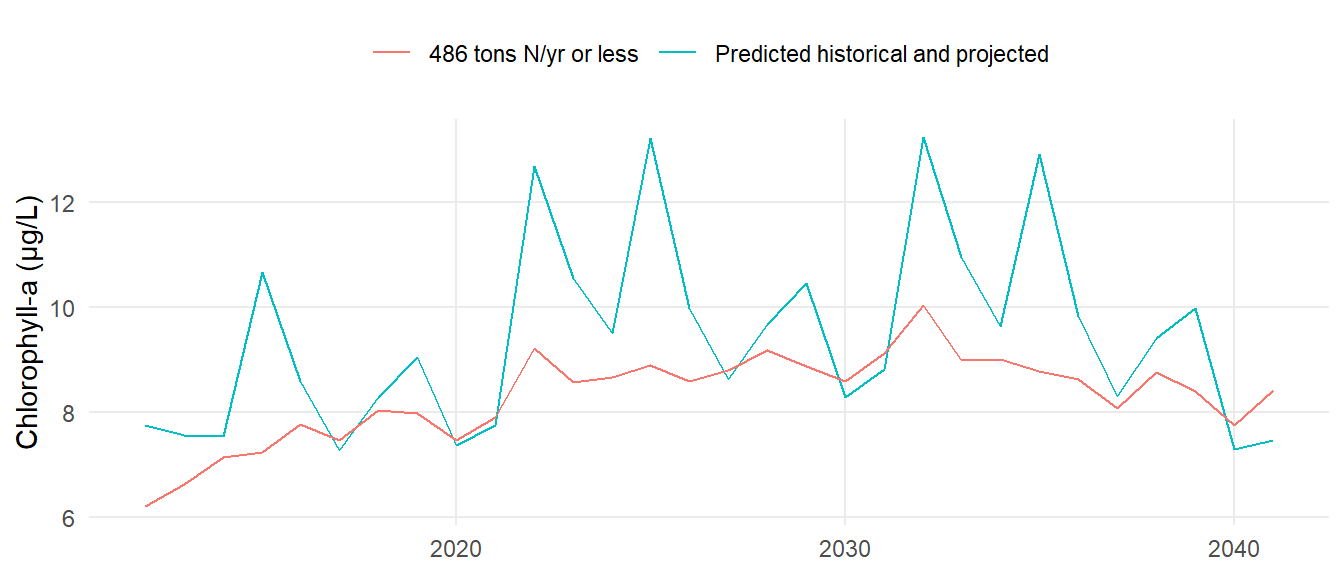
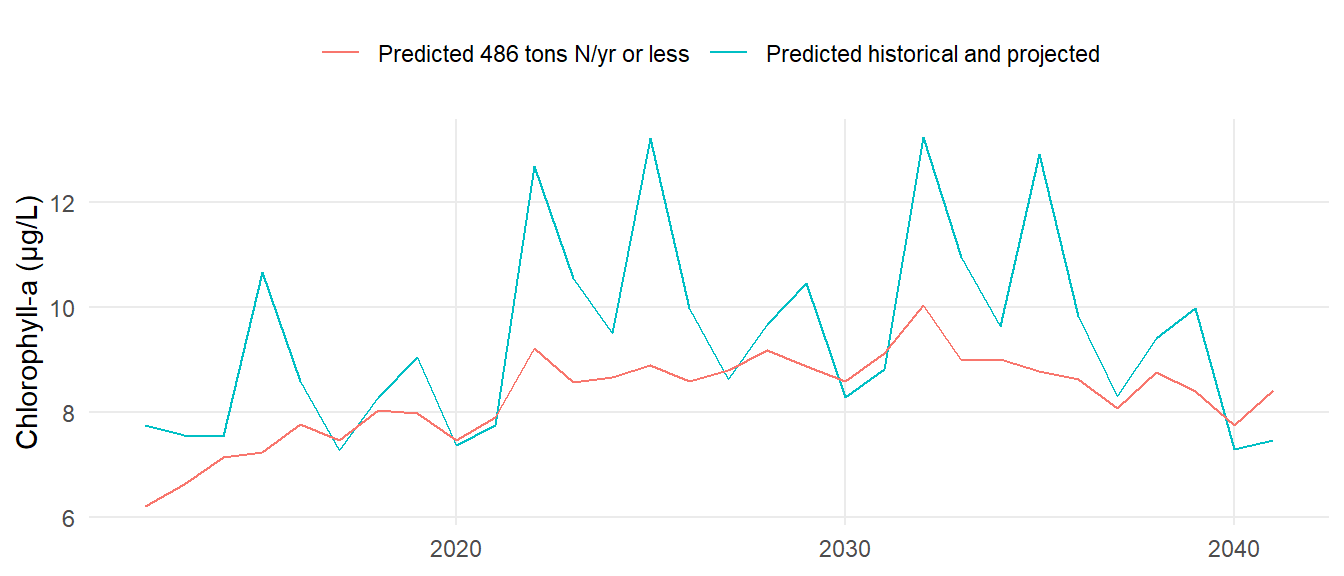
minor plot change

Changed region(s): [[0.2812, 0.0625, 0.8125, 0.125]]

diff --git a/docs/casm_eval.html b/docs/casm_eval.html
@@ -176,7 +176,7 @@ pre > code.sourceCode > span > a:first-child::before { text-decoration: underlin
 <span id="cb2-6"><a href="#cb2-6" aria-hidden="true" tabindex="-1"></a>  )</span>
 <span id="cb2-7"><a href="#cb2-7" aria-hidden="true" tabindex="-1"></a><span class="fu">ggplot</span>(toplo, <span class="fu">aes</span>(<span class="at">x =</span> yr)) <span class="sc">+</span> </span>
 <span id="cb2-8"><a href="#cb2-8" aria-hidden="true" tabindex="-1"></a>  <span class="fu">geom_line</span>(<span class="fu">aes</span>(<span class="at">y =</span> prdhist, <span class="at">color =</span> <span class="st">'Predicted historical and projected'</span>)) <span class="sc">+</span></span>
-<span id="cb2-9"><a href="#cb2-9" aria-hidden="true" tabindex="-1"></a>  <span class="fu">geom_line</span>(<span class="fu">aes</span>(<span class="at">y =</span> prd486, <span class="at">color =</span> <span class="st">'486 tons N/yr or less'</span>)) <span class="sc">+</span> </span>
+<span id="cb2-9"><a href="#cb2-9" aria-hidden="true" tabindex="-1"></a>  <span class="fu">geom_line</span>(<span class="fu">aes</span>(<span class="at">y =</span> prd486, <span class="at">color =</span> <span class="st">'Predicted 486 tons N/yr or less'</span>)) <span class="sc">+</span> </span>
 <span id="cb2-10"><a href="#cb2-10" aria-hidden="true" tabindex="-1"></a>  <span class="fu">theme_minimal</span>() <span class="sc">+</span></span>
 <span id="cb2-11"><a href="#cb2-11" aria-hidden="true" tabindex="-1"></a>  <span class="fu">theme</span>(</span>
 <span id="cb2-12"><a href="#cb2-12" aria-hidden="true" tabindex="-1"></a>    <span class="at">legend.position =</span> <span class="st">'top'</span>,</span>
@@ -940,7 +940,7 @@ window.document.addEventListener("DOMContentLoaded", function (event) {
 });
 </script>
 </div> <!-- /content -->
-<script>var lightboxQuarto = GLightbox({"loop":false,"closeEffect":"zoom","descPosition":"bottom","selector":".lightbox","openEffect":"zoom"});
+<script>var lightboxQuarto = GLightbox({"descPosition":"bottom","closeEffect":"zoom","loop":false,"selector":".lightbox","openEffect":"zoom"});
 window.onload = () => {
   lightboxQuarto.on('slide_before_load', (data) => {
     const { slideIndex, slideNode, slideConfig, player, trigger } = data;
